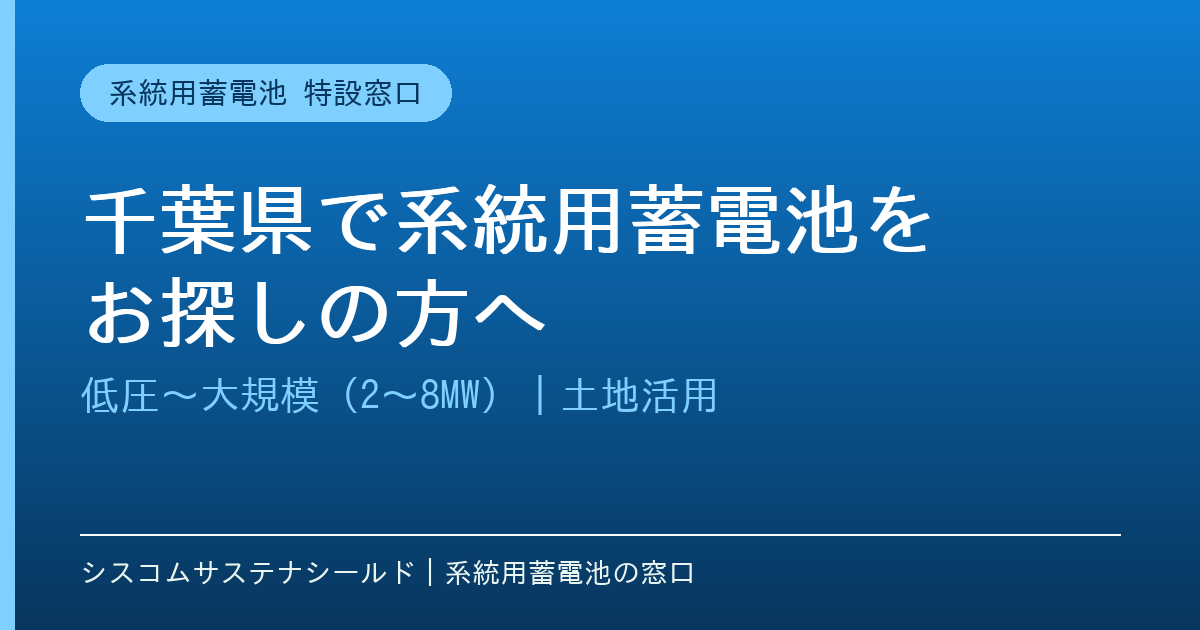
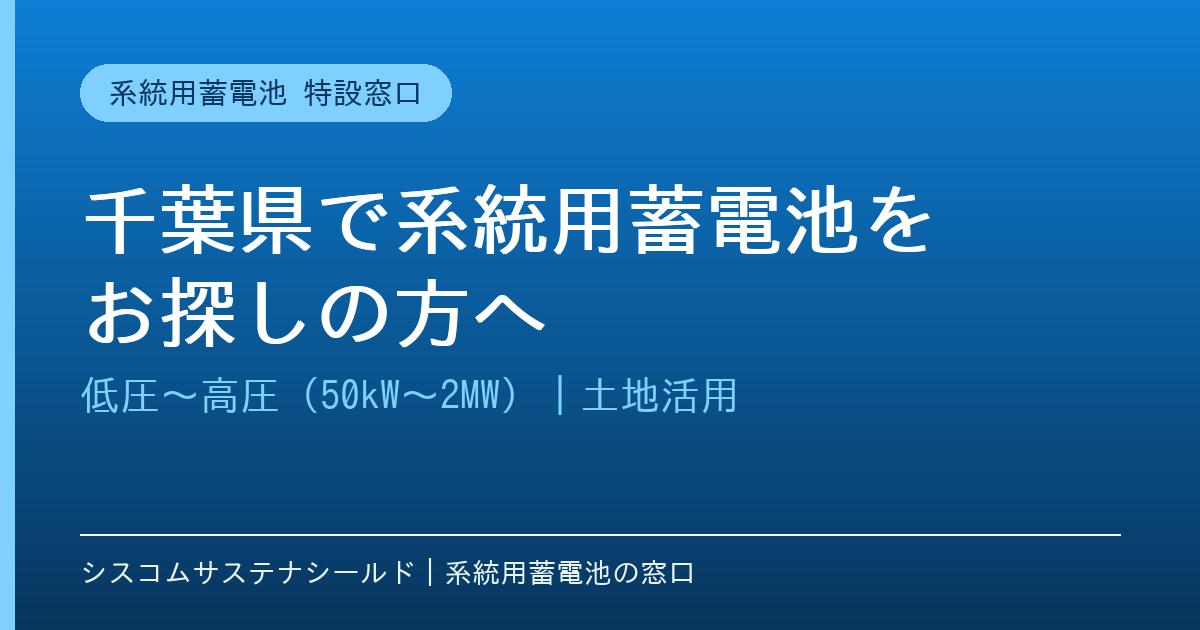
修正：系統用蓄電池の容量区分を「低圧〜高圧（50kW〜2MW）」に統一
誤「低圧〜大規模（2〜8MW）」を正しい区分へ訂正（grid-battery / chiba-land-search）。
本文・タイトル・選択肢・FAQ・OGP画像をすべて更新。

Claude-Session: https://claude.ai/code/session_01T3AaGAF4s7ZmAmwFPWLVqE

Changed region(s): [[0.1542, 0.6032, 0.6167, 0.6635]]

diff --git a/grid-battery/index.html b/grid-battery/index.html
@@ -3,13 +3,13 @@
 <head>
 <meta charset="utf-8">
 <meta name="viewport" content="width=device-width, initial-scale=1">
-<title>千葉県で系統用蓄電池をお探しの方へ｜特設窓口｜土地活用・低圧〜大規模(2〜8MW)</title>
-<meta name="description" content="千葉県で系統用蓄電池をお探しの方へ。アパート経営に代わる新しい土地活用として注目の系統用蓄電池。低圧系統用蓄電池から大規模(2〜8MW)まで、用地探し・連系・申請・引渡までご相談ください。特設窓口 043-308-4403。事務局：シスコムサステナシールド（千葉エネルギー研究会）。">
+<title>千葉県で系統用蓄電池をお探しの方へ｜特設窓口｜土地活用・低圧〜高圧(50kW〜2MW)</title>
+<meta name="description" content="千葉県で系統用蓄電池をお探しの方へ。アパート経営に代わる新しい土地活用として注目の系統用蓄電池。低圧系統用蓄電池から高圧(50kW〜2MW)まで、用地探し・連系・申請・引渡までご相談ください。特設窓口 043-308-4403。事務局：シスコムサステナシールド（千葉エネルギー研究会）。">
 
 <!-- OGP（公開URL確定後に og:image を差し替え：要確認） -->
 <meta property="og:type" content="website">
 <meta property="og:title" content="千葉県で系統用蓄電池をお探しの方へ｜特設窓口">
-<meta property="og:description" content="アパート経営に代わる新しい土地活用。低圧〜大規模(2〜8MW)の系統用蓄電池を、用地探しから連系・引渡までサポート。特設窓口 043-308-4403。">
+<meta property="og:description" content="アパート経営に代わる新しい土地活用。低圧〜高圧(50kW〜2MW)の系統用蓄電池を、用地探しから連系・引渡までサポート。特設窓口 043-308-4403。">
 <meta property="og:url" content="https://syscom-sustaina-shield.com/grid-battery/">
 <link rel="canonical" href="https://syscom-sustaina-shield.com/grid-battery/">
 <meta property="og:image" content="https://syscom-sustaina-shield.com/grid-battery/assets/og.png"><!-- 要確認：1200x630 -->
@@ -153,7 +153,7 @@
   <div class="wrap">
     <span class="kicker">千葉県 ｜ 系統用蓄電池 特設窓口</span>
     <h1>千葉県で、<span class="hl">系統用蓄電池</span>をお探しの方へ</h1>
-    <p class="sub">アパート経営に代わる、新しい土地活用として注目を集める系統用蓄電池。低圧から大規模（2〜8MW）まで、用地探し・連系・申請・引渡までまるごとご相談いただけます。</p>
+    <p class="sub">アパート経営に代わる、新しい土地活用として注目を集める系統用蓄電池。低圧から高圧（50kW〜2MW）まで、用地探し・連系・申請・引渡までまるごとご相談いただけます。</p>
     <div class="hero-cta">
       <a class="btn btn-tel full" href="tel:0433084403">☎ 特設窓口に電話する（043-308-4403）</a>
       <a class="btn btn-line full" data-cta="line" href="#contact">LINEで相談する</a>
@@ -176,7 +176,7 @@
       <div class="i"><div class="ic">⚡</div><h3>電力の新しい仕組み</h3>
         <p>再エネの普及にともない、電気を「貯めて調整する」役割が重要に。系統用蓄電池はその担い手として注目されています（市場・収益性は要確認）。</p></div>
       <div class="i"><div class="ic">🗾</div><h3>千葉（東京電力管内）に対応</h3>
-        <p>千葉県内の連系・申請の動向を把握し、用地条件に合わせてご提案。低圧系統用から大規模まで幅広く対応します。</p></div>
+        <p>千葉県内の連系・申請の動向を把握し、用地条件に合わせてご提案。低圧系統用から高圧まで幅広く対応します。</p></div>
       <div class="i"><div class="ic">🤝</div><h3>窓口から引渡までワンストップ</h3>
         <p>千葉エネルギー研究会の加盟企業が連携し、相談→用地→連系・申請→施工→引渡までをサポートします。</p></div>
     </div>
@@ -196,10 +196,10 @@
         <div class="note">小規模・低圧での導入を検討の方に。用地条件に応じてご提案します。</div>
       </div>
       <div class="pcard big">
-        <div class="ribbon">大規模</div>
-        <div class="cap">系統用蓄電池（2MW〜8MW）</div>
+        <div class="ribbon">高圧</div>
+        <div class="cap">系統用蓄電池（50kW〜2MW）</div>
         <div class="amt">6億円〜 <small>（税別・参考｜要確認）</small></div>
-        <div class="note">まとまった用地での大規模導入に。規模・仕様・系統条件で大きく変わります。</div>
+        <div class="note">まとまった用地での高圧導入に。規模・仕様・系統条件で大きく変わります。</div>
       </div>
     </div>
     <div class="note" style="margin-top:16px">
@@ -267,7 +267,7 @@
         <option value="">選んでください</option>
         <option>土地を系統用蓄電池の用地として活かしたい</option>
         <option>低圧系統用蓄電池の導入を検討</option>
-        <option>大規模（2〜8MW）系統用蓄電池を検討</option>
+        <option>高圧（50kW〜2MW）系統用蓄電池を検討</option>
         <option>連系・申請について知りたい</option>
         <option>その他</option>
       </select>
@@ -288,7 +288,7 @@
   <div class="wrap narrow">
     <p class="eyebrow">よくあるご質問</p>
     <h2>FAQ</h2>
-    <details><summary>どのくらいの広さの土地が必要ですか？</summary><div class="ans">規模（低圧〜大規模）によって異なります。まずは所在地・おおよその広さをお知らせいただければ、用地として活かせる可能性をご一緒に確認します。</div></details>
+    <details><summary>どのくらいの広さの土地が必要ですか？</summary><div class="ans">規模（低圧〜高圧）によって異なります。まずは所在地・おおよその広さをお知らせいただければ、用地として活かせる可能性をご一緒に確認します。</div></details>
     <details><summary>本当に収益になりますか？</summary><div class="ans">収益・採算は、用地・系統条件・市場・制度の状況によって変わるため断定できません。根拠とあわせて見通しを整理し、無理のない形をご提案します。</div></details>
     <details><summary>連系・申請はできますか？</summary><div class="ans">千葉（東京電力管内）の連系・申請の状況は時期により変わります。最新の一次情報をもとに可否・見通しを確認してお伝えします。</div></details>
     <details><summary>千葉県外でも相談できますか？</summary><div class="ans">基本は千葉県を中心に対応しています。県外の方はまずご相談ください。</div></details>

diff --git a/chiba-land-search/index.html b/chiba-land-search/index.html
@@ -224,7 +224,7 @@
   <div class="wrap">
     <div class="door">
       <h3>そもそも「系統用蓄電池」って？</h3>
-      <p>電気を貯めて電力系統を支える設備で、いま土地活用として注目されています。低圧から大規模（2〜8MW）まで、特設サイトで詳しくご案内しています。</p>
+      <p>電気を貯めて電力系統を支える設備で、いま土地活用として注目されています。低圧から高圧（50kW〜2MW）まで、特設サイトで詳しくご案内しています。</p>
       <a class="go" href="#" id="goBatt">系統用蓄電池の特設サイトを見る →</a>
     </div>
   </div>
